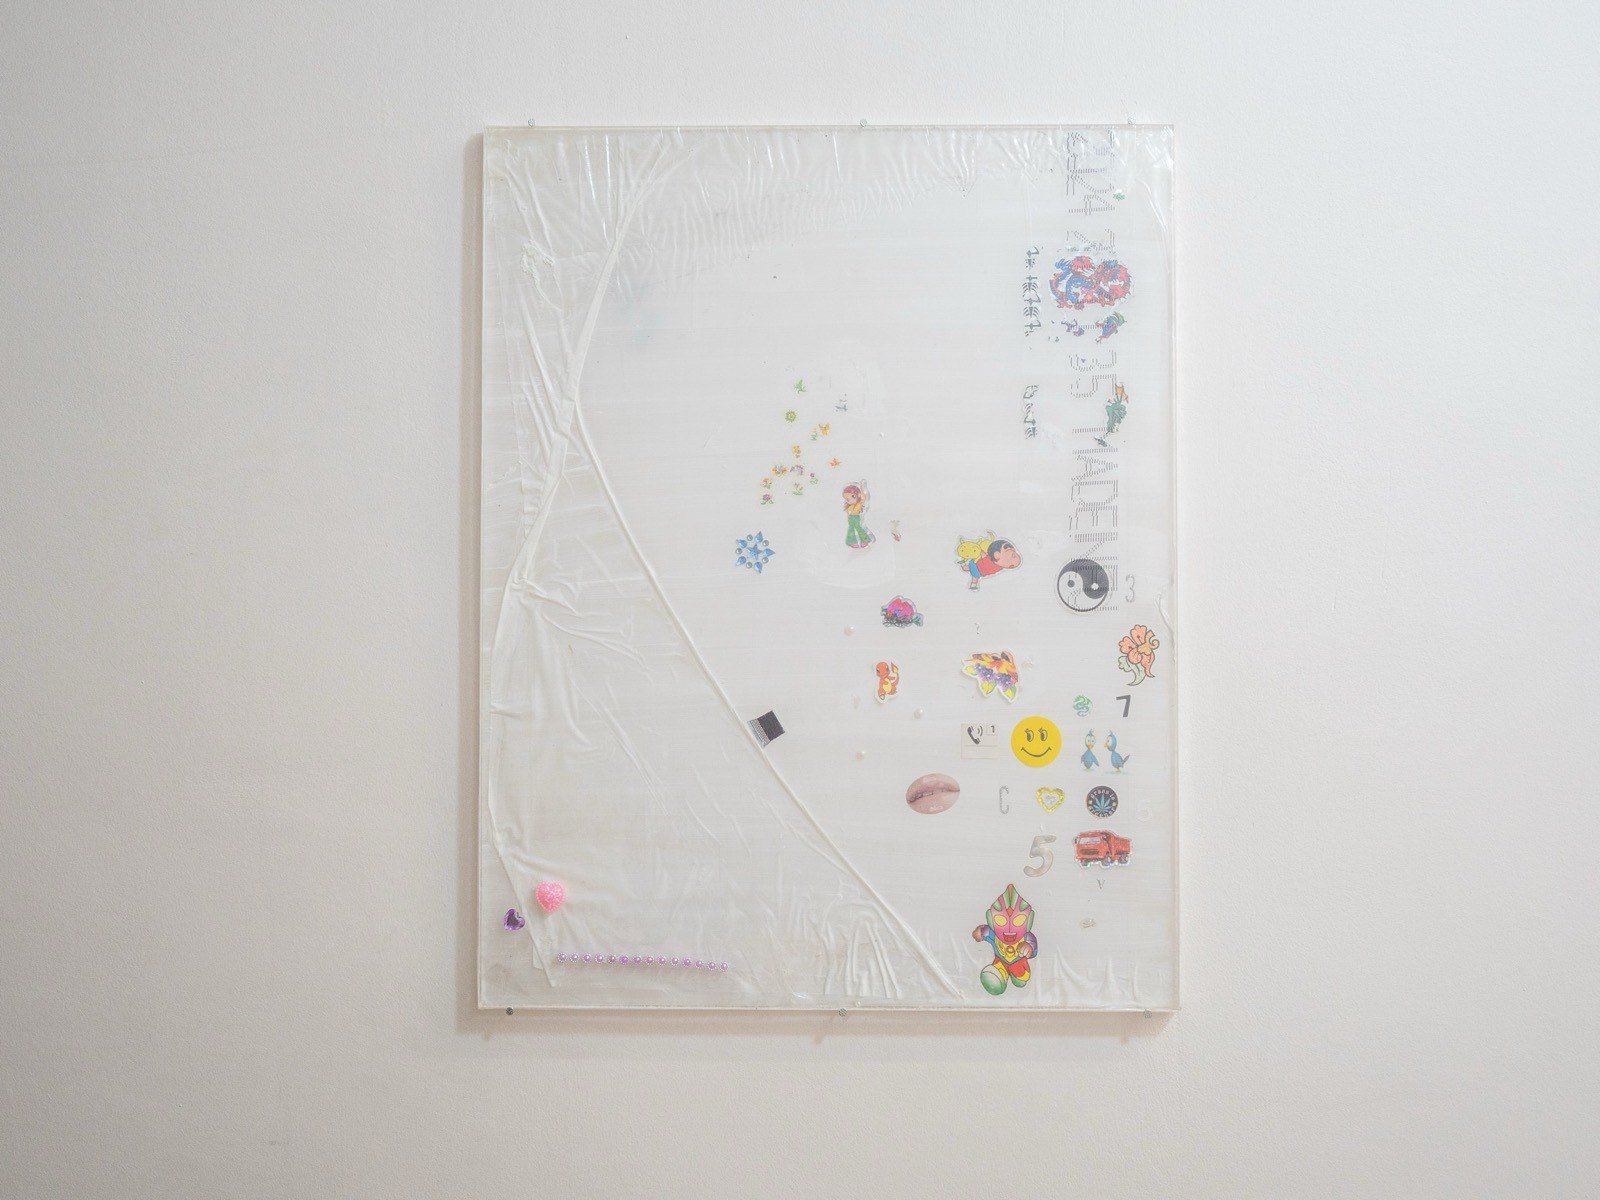
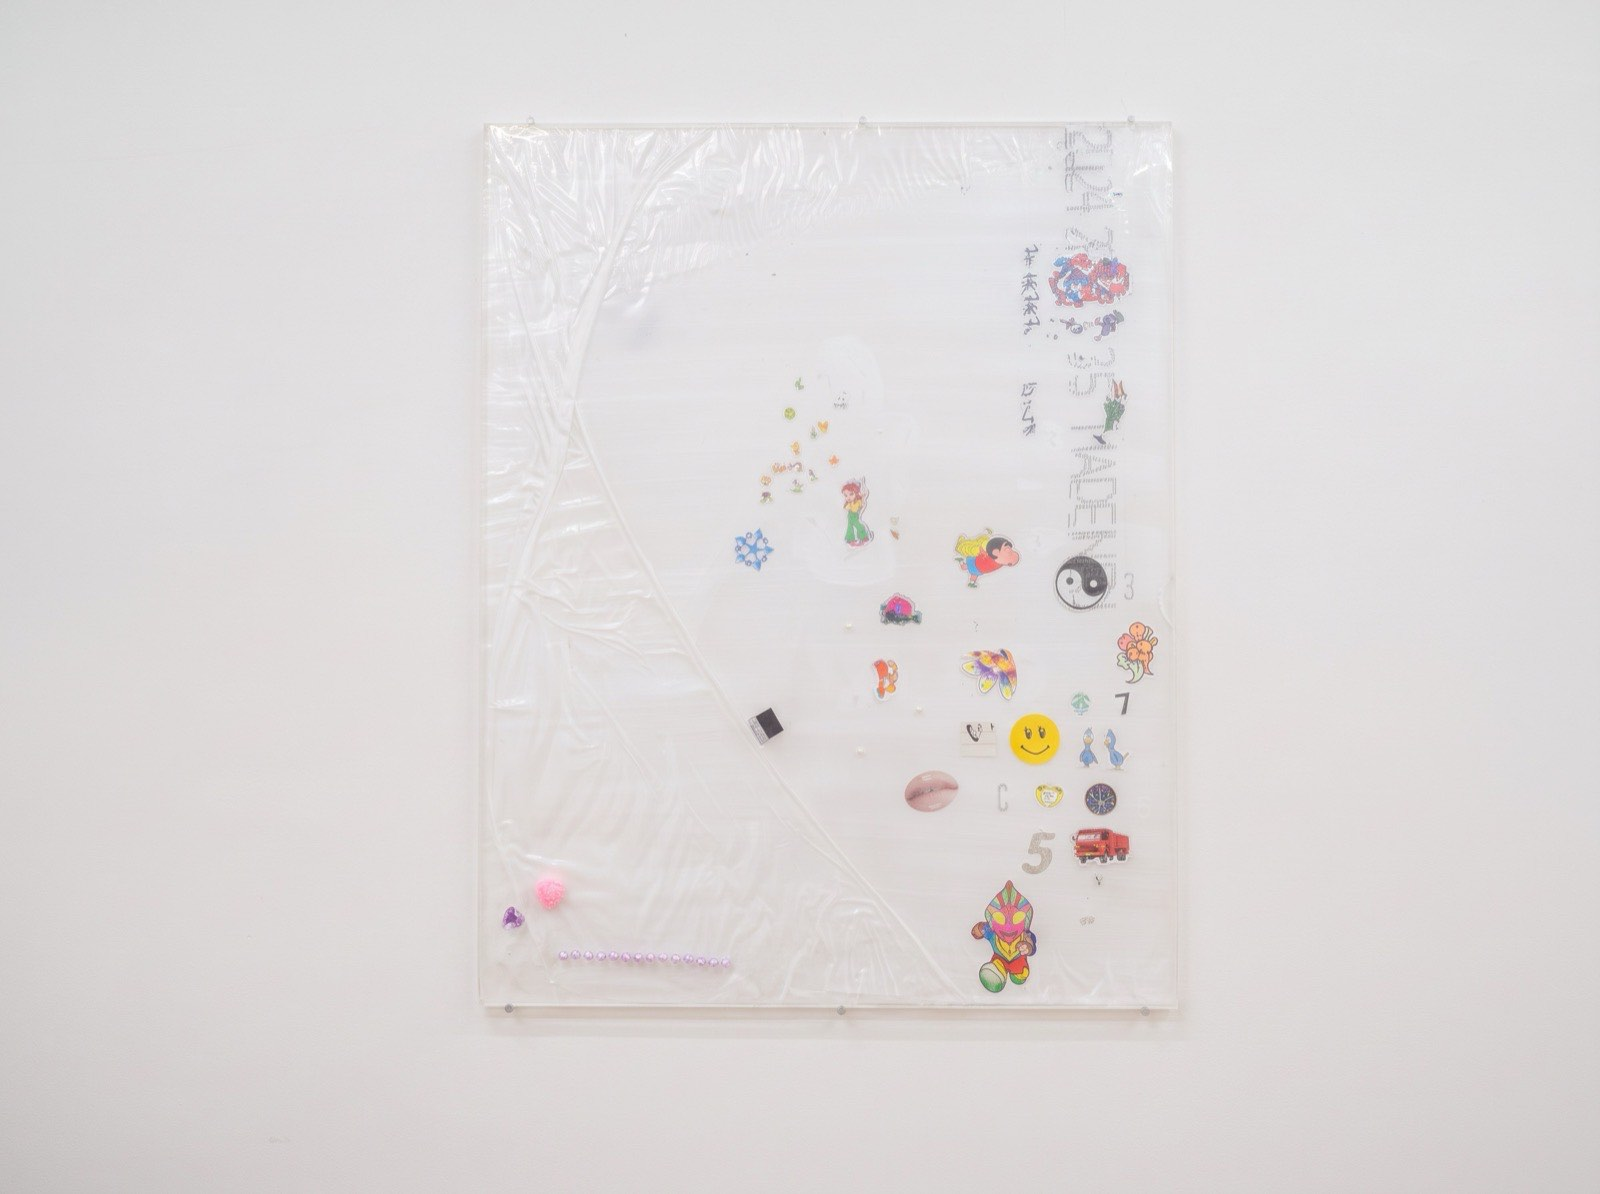
Refactor code structure for improved readability and maintainability

diff --git a/artistes/caroline-ventura/index.html b/artistes/caroline-ventura/index.html
@@ -19,7 +19,7 @@
 <meta name="twitter:description" content="Peinture, dessin · Magenta Made Me Hardcore · Kramer, Paris">
 <meta name="twitter:image" content="https://kramer.paris/images/works/caroline-ventura--sans-titre-air--obj-1.jpg">
 <script type="application/ld+json">
-{"@context":"https://schema.org","@graph":[{"@type":"WebPage","@id":"https://kramer.paris/artistes/caroline-ventura/","url":"https://kramer.paris/artistes/caroline-ventura/","name":"Caroline Ventura — Peinture · Kramer, Paris","description":"Caroline Ventura, peinture, dessin (Aubervilliers) — exposition « Magenta Made Me Hardcore » (KR03). Kramer, galerie d'art contemporain, Paris 10e.","inLanguage":"fr","mainEntity":{"@id":"https://kramer.paris/artistes/caroline-ventura/#person"},"isPartOf":{"@type":"WebSite","@id":"https://kramer.paris/#website","name":"Kramer","url":"https://kramer.paris/"},"breadcrumb":{"@id":"https://kramer.paris/artistes/caroline-ventura/#breadcrumb"}},{"@type":"BreadcrumbList","@id":"https://kramer.paris/artistes/caroline-ventura/#breadcrumb","itemListElement":[{"@type":"ListItem","position":1,"name":"Accueil","item":"https://kramer.paris/"},{"@type":"ListItem","position":2,"name":"Registre des artistes","item":"https://kramer.paris/artistes/"},{"@type":"ListItem","position":3,"name":"Caroline Ventura","item":"https://kramer.paris/artistes/caroline-ventura/"}]},{"@type":"Person","@id":"https://kramer.paris/artistes/caroline-ventura/#person","name":"Caroline Ventura","url":"https://kramer.paris/artistes/caroline-ventura/","jobTitle":["Artiste","Visual Artist"],"image":"https://kramer.paris/images/works/caroline-ventura--sans-titre-air--obj-1.jpg","knowsAbout":["Peinture","dessin"],"birthDate":"1994","birthPlace":{"@type":"Place","name":"Lausanne"},"homeLocation":{"@type":"Place","name":"Aubervilliers"},"gender":"https://schema.org/Female","affiliation":{"@id":"https://kramer.paris/#gallery"},"sameAs":["https://www.carolineventura.ch"]},{"@type":"ArtGallery","@id":"https://kramer.paris/#gallery","name":"Kramer","url":"https://kramer.paris/","image":"https://kramer.paris/images/kramer_wordmark.png","logo":"https://kramer.paris/images/kramer_wordmark.png","description":"Galerie d'art contemporain à Paris (10e) — galerie d'appartement, registre d'expositions.","address":{"@type":"PostalAddress","streetAddress":"132 Bd de Magenta","postalCode":"75010","addressLocality":"Paris","addressCountry":"FR"},"geo":{"@type":"GeoCoordinates","latitude":48.880867,"longitude":2.352205},"hasMap":"https://www.google.com/maps/search/?api=1&query=132%20Bd%20de%20Magenta%2C%2075010%20Paris","sameAs":["https://www.instagram.com/galeriekramer/"]},{"@type":"VisualArtwork","@id":"https://kramer.paris/artistes/caroline-ventura/#oeuvre-sans-titre-air","name":"Sans titre (air)","creator":{"@id":"https://kramer.paris/artistes/caroline-ventura/#person"},"url":"https://kramer.paris/artistes/caroline-ventura/","dateCreated":"2026","artform":"Peinture","artMedium":"Peinture — châssis bois hêtre, toile coton, mixed medium","height":{"@type":"Distance","name":"92 cm"},"width":{"@type":"Distance","name":"73 cm"},"image":{"@type":"ImageObject","contentUrl":"https://kramer.paris/images/works/caroline-ventura--sans-titre-air--obj-1.jpg","creditText":"Matteo Kramer","creator":{"@type":"Organization","name":"Kramer","url":"https://kramer.paris/"},"copyrightNotice":"© Caroline Ventura","license":"https://kramer.paris/#mentions-legales","acquireLicensePage":"https://kramer.paris/#section-acces"}},{"@type":"VisualArtwork","@id":"https://kramer.paris/artistes/caroline-ventura/#oeuvre-sans-titre-etoile","name":"Sans titre (étoile)","creator":{"@id":"https://kramer.paris/artistes/caroline-ventura/#person"},"url":"https://kramer.paris/artistes/caroline-ventura/","dateCreated":"2026","artform":"Peinture","artMedium":"Peinture — châssis bois hêtre, toile coton, mixed medium","height":{"@type":"Distance","name":"92 cm"},"width":{"@type":"Distance","name":"73 cm"},"image":[{"@type":"ImageObject","contentUrl":"https://kramer.paris/images/installation/kr03-inst-15-khrapova-ventura.jpg","creditText":"Matteo Kramer","creator":{"@type":"Organization","name":"Kramer","url":"https://kramer.paris/"},"copyrightNotice":"© KRAMER","license":"https://kramer.paris/#mentions-legales","acquireLicensePage":"https://kramer.paris/#section-acces"},{"@type":"ImageObject","contentUrl":"https://kramer.paris/images/installation/kr03-inst-14-khrapova-ventura.jpg","creditText":"Matteo Kramer","creator":{"@type":"Organization","name":"Kramer","url":"https://kramer.paris/"},"copyrightNotice":"© KRAMER","license":"https://kramer.paris/#mentions-legales","acquireLicensePage":"https://kramer.paris/#section-acces"}]},{"@type":"VisualArtwork","@id":"https://kramer.paris/artistes/caroline-ventura/#oeuvre-stickers-2026","name":"Stickers (2026)","creator":{"@id":"https://kramer.paris/artistes/caroline-ventura/#person"},"url":"https://kramer.paris/artistes/caroline-ventura/","dateCreated":"2026","artform":"Peinture","artMedium":"Peinture — plexiglass, gesso, autocollants, scotch","height":{"@type":"Distance","name":"33 cm"},"width":{"@type":"Distance","name":"24 cm"},"image":[{"@type":"ImageObject","contentUrl":"https://kramer.paris/images/works/caroline-ventura--stickers--obj-1.jpg","creditText":"Matteo Kramer","creator":{"@type":"Organization","name":"Kramer","url":"https://kramer.paris/"},"copyrightNotice":"© Caroline Ventura","license":"https://kramer.paris/#mentions-legales","acquireLicensePage":"https://kramer.paris/#section-acces"},{"@type":"ImageObject","contentUrl":"https://kramer.paris/images/installation/kr03-inst-03-khrapova-nicole-ventura.jpg","creditText":"Matteo Kramer","creator":{"@type":"Organization","name":"Kramer","url":"https://kramer.paris/"},"copyrightNotice":"© KRAMER","license":"https://kramer.paris/#mentions-legales","acquireLicensePage":"https://kramer.paris/#section-acces"}]}]}
+{"@context":"https://schema.org","@graph":[{"@type":"WebPage","@id":"https://kramer.paris/artistes/caroline-ventura/","url":"https://kramer.paris/artistes/caroline-ventura/","name":"Caroline Ventura — Peinture · Kramer, Paris","description":"Caroline Ventura, peinture, dessin (Aubervilliers) — exposition « Magenta Made Me Hardcore » (KR03). Kramer, galerie d'art contemporain, Paris 10e.","inLanguage":"fr","mainEntity":{"@id":"https://kramer.paris/artistes/caroline-ventura/#person"},"isPartOf":{"@type":"WebSite","@id":"https://kramer.paris/#website","name":"Kramer","url":"https://kramer.paris/"},"breadcrumb":{"@id":"https://kramer.paris/artistes/caroline-ventura/#breadcrumb"}},{"@type":"BreadcrumbList","@id":"https://kramer.paris/artistes/caroline-ventura/#breadcrumb","itemListElement":[{"@type":"ListItem","position":1,"name":"Accueil","item":"https://kramer.paris/"},{"@type":"ListItem","position":2,"name":"Registre des artistes","item":"https://kramer.paris/artistes/"},{"@type":"ListItem","position":3,"name":"Caroline Ventura","item":"https://kramer.paris/artistes/caroline-ventura/"}]},{"@type":"Person","@id":"https://kramer.paris/artistes/caroline-ventura/#person","name":"Caroline Ventura","url":"https://kramer.paris/artistes/caroline-ventura/","jobTitle":["Artiste","Visual Artist"],"image":"https://kramer.paris/images/works/caroline-ventura--sans-titre-air--obj-1.jpg","knowsAbout":["Peinture","dessin"],"birthDate":"1994","birthPlace":{"@type":"Place","name":"Lausanne"},"homeLocation":{"@type":"Place","name":"Aubervilliers"},"gender":"https://schema.org/Female","affiliation":{"@id":"https://kramer.paris/#gallery"},"sameAs":["https://www.carolineventura.ch"]},{"@type":"ArtGallery","@id":"https://kramer.paris/#gallery","name":"Kramer","url":"https://kramer.paris/","image":"https://kramer.paris/images/kramer_wordmark.png","logo":"https://kramer.paris/images/kramer_wordmark.png","description":"Galerie d'art contemporain à Paris (10e) — galerie d'appartement, registre d'expositions.","address":{"@type":"PostalAddress","streetAddress":"132 Bd de Magenta","postalCode":"75010","addressLocality":"Paris","addressCountry":"FR"},"geo":{"@type":"GeoCoordinates","latitude":48.880867,"longitude":2.352205},"hasMap":"https://www.google.com/maps/search/?api=1&query=132%20Bd%20de%20Magenta%2C%2075010%20Paris","sameAs":["https://www.instagram.com/galeriekramer/"]},{"@type":"VisualArtwork","@id":"https://kramer.paris/artistes/caroline-ventura/#oeuvre-sans-titre-air","name":"Sans titre (air)","creator":{"@id":"https://kramer.paris/artistes/caroline-ventura/#person"},"url":"https://kramer.paris/artistes/caroline-ventura/","dateCreated":"2026","artform":"Peinture","artMedium":"Peinture — châssis bois hêtre, toile coton, mixed medium","height":{"@type":"Distance","name":"92 cm"},"width":{"@type":"Distance","name":"73 cm"},"image":{"@type":"ImageObject","contentUrl":"https://kramer.paris/images/works/caroline-ventura--sans-titre-air--obj-1.jpg","creditText":"Matteo Kramer","creator":{"@type":"Organization","name":"Kramer","url":"https://kramer.paris/"},"copyrightNotice":"© Caroline Ventura","license":"https://kramer.paris/#mentions-legales","acquireLicensePage":"https://kramer.paris/#section-acces"}},{"@type":"VisualArtwork","@id":"https://kramer.paris/artistes/caroline-ventura/#oeuvre-sans-titre-etoile","name":"Sans titre (étoile)","creator":{"@id":"https://kramer.paris/artistes/caroline-ventura/#person"},"url":"https://kramer.paris/artistes/caroline-ventura/","dateCreated":"2026","artform":"Peinture","artMedium":"Peinture — châssis bois hêtre, toile coton, mixed medium","height":{"@type":"Distance","name":"92 cm"},"width":{"@type":"Distance","name":"73 cm"},"image":[{"@type":"ImageObject","contentUrl":"https://kramer.paris/images/installation/kr03-inst-15-khrapova-ventura.jpg","creditText":"Matteo Kramer","creator":{"@type":"Organization","name":"Kramer","url":"https://kramer.paris/"},"copyrightNotice":"© KRAMER","license":"https://kramer.paris/#mentions-legales","acquireLicensePage":"https://kramer.paris/#section-acces"},{"@type":"ImageObject","contentUrl":"https://kramer.paris/images/installation/kr03-inst-14-khrapova-ventura.jpg","creditText":"Matteo Kramer","creator":{"@type":"Organization","name":"Kramer","url":"https://kramer.paris/"},"copyrightNotice":"© KRAMER","license":"https://kramer.paris/#mentions-legales","acquireLicensePage":"https://kramer.paris/#section-acces"}]},{"@type":"VisualArtwork","@id":"https://kramer.paris/artistes/caroline-ventura/#oeuvre-stickers-2026","name":"Stickers (2026)","creator":{"@id":"https://kramer.paris/artistes/caroline-ventura/#person"},"url":"https://kramer.paris/artistes/caroline-ventura/","dateCreated":"2026","artform":"Peinture","artMedium":"Peinture — plexiglass, gesso, autocollants, scotch","height":{"@type":"Distance","name":"33 cm"},"width":{"@type":"Distance","name":"24 cm"},"image":[{"@type":"ImageObject","contentUrl":"https://kramer.paris/images/works/caroline-ventura--stickers--obj-1.jpg","creditText":"Matteo Kramer","creator":{"@type":"Organization","name":"Kramer","url":"https://kramer.paris/"},"copyrightNotice":"© Caroline Ventura","license":"https://kramer.paris/#mentions-legales","acquireLicensePage":"https://kramer.paris/#section-acces"},{"@type":"ImageObject","contentUrl":"https://kramer.paris/images/works/caroline-ventura--stickers--obj-2.jpg","creditText":"Matteo Kramer","creator":{"@type":"Organization","name":"Kramer","url":"https://kramer.paris/"},"copyrightNotice":"© Caroline Ventura","license":"https://kramer.paris/#mentions-legales","acquireLicensePage":"https://kramer.paris/#section-acces"},{"@type":"ImageObject","contentUrl":"https://kramer.paris/images/installation/kr03-inst-03-khrapova-nicole-ventura.jpg","creditText":"Matteo Kramer","creator":{"@type":"Organization","name":"Kramer","url":"https://kramer.paris/"},"copyrightNotice":"© KRAMER","license":"https://kramer.paris/#mentions-legales","acquireLicensePage":"https://kramer.paris/#section-acces"}]}]}
 </script>
 <link rel="stylesheet" href="https://use.typekit.net/svm4vfk.css">
 <link rel="stylesheet" href="../../kramer.css">
@@ -57,6 +57,8 @@
       </div>
       <div class="work-item">
         <div class="work-plate"><img src="../../images/works/caroline-ventura--stickers--obj-1.jpg" alt="Stickers (2026), Peinture — plexiglass, gesso, autocollants, scotch · 33 × 24 cm" loading="lazy" decoding="async"></div>
+        <p class="work-cap">Caroline Ventura, <em>Stickers (2026)</em>, 2026. Peinture — plexiglass, gesso, autocollants, scotch, 33 × 24 cm. Courtoisie de l'artiste. Kramer.</p>
+        <div class="work-plate"><img src="../../images/works/caroline-ventura--stickers--obj-2.jpg" alt="Stickers (2026), Peinture — plexiglass, gesso, autocollants, scotch · 33 × 24 cm" loading="lazy" decoding="async"></div>
         <p class="work-cap">Caroline Ventura, <em>Stickers (2026)</em>, 2026. Peinture — plexiglass, gesso, autocollants, scotch, 33 × 24 cm. Courtoisie de l'artiste. Kramer.</p>
         <a class="work-inquire" href="#" data-t="Stickers (2026)" data-d="2026" data-s="33 × 24 cm" data-r="KR03CV">Demander la fiche →</a>
         <div class="work-plate"><img src="../../images/installation/kr03-inst-03-khrapova-nicole-ventura.jpg" alt="Vue d'installation de «Magenta Made Me Hardcore», KRAMER — Caroline Ventura" loading="lazy" decoding="async"></div>

diff --git a/index.html b/index.html
@@ -962,7 +962,7 @@ const ARTISTS=[
     {l:'Publications & collaborations',rows:[['2026','Je ne suis pas qu’un chien, Palais de Tokyo (film réalisé par Sylvia Vargane, à venir)'],['2025','Entretien filmé, TimeOut Paris'],['2025','Catalogue de l’exposition ANIMAL!?'],['2025','Documentation de la résidence Le Grippault (télévision)'],['2025','Richelieu, « Move Your Art! » au Grippault (journalisme)'],['2025','Blazers Blasons'],['2024','Monsieur Nini (entretien filmé autour de l’exposition Dogs In Art)']]}]},
   {slug:'caroline-ventura',name:'Caroline Ventura',born:'1994, Lausanne',based:'Aubervilliers',medium:'Peinture, dessin',code:'CV',g:'f',links:['https://www.carolineventura.ch'],
    bio:'Caroline Ventura (born 1994, Lausanne) is a visual artist who graduated from ECAL in 2016 with a BA in Visual Arts, receiving the Walter & Eve Kent Scholarship and the Prix du Risque. She later completed the Work.Master at HEAD in Geneva, took part in the Summer Academy at the Swiss Institute in Rome, and spent her final year in Paris. A finalist for the Swiss Art Awards in 2021, she has shown her work mainly in Switzerland, France and Germany, including at Café des Glaces (Tonnerre), sic! Elephanthouse (Lucerne), Spoiler.zone (Berlin) and Tada Space (Denmark). In 2024, she published her first book, More Beautiful Than They Are, accompanied by an exhibition at sic! Elephanthouse. In 2025, she received a research travel grant from Pro Helvetia and spent a month in Lisbon to begin developing her film project Ponte de Vista. That same year, she co-curated two independent exhibitions in Paris and Zurich under the name good company.\n\nHer practice is driven by gesture, repetition and collection, with painting acting as a compositional force in itself. Inspired by the energy of urban environments and the visual culture of her adolescence, she translates the density of the city into vibrant surfaces built from rhythm, layering and tension. Working across latex, mirror, paper and canvas, she uses each support to shift perception and create moments of appearance, reflection or disappearance. Balancing control and improvisation, her work moves between softness and directness, opening a space where colours, forms and gestures interact freely and generate their own internal logic.',bioLang:'en',
-   works:[{t:'Sans titre (air)',d:'2026',m:'Peinture — châssis bois hêtre, toile coton, mixed medium',s:'92 × 73 cm',i:'caroline-ventura--sans-titre-air--obj-1.jpg',ph:'Matteo Kramer'},{t:'Sans titre (étoile)',d:'2026',m:'Peinture — châssis bois hêtre, toile coton, mixed medium',s:'92 × 73 cm',i:{f:'kr03-inst-15-khrapova-ventura.jpg',ph:'Matteo Kramer',dir:'installation'},ph:'Matteo Kramer',views:[{f:'kr03-inst-14-khrapova-ventura.jpg',ph:'Matteo Kramer',dir:'installation'}]},{t:'Stickers (2026)',d:'2026',m:'Peinture — plexiglass, gesso, autocollants, scotch',s:'33 × 24 cm',i:'caroline-ventura--stickers--obj-1.jpg',ph:'Matteo Kramer',views:[{f:'kr03-inst-03-khrapova-nicole-ventura.jpg',ph:'Matteo Kramer',dir:'installation'}]}],
+   works:[{t:'Sans titre (air)',d:'2026',m:'Peinture — châssis bois hêtre, toile coton, mixed medium',s:'92 × 73 cm',i:'caroline-ventura--sans-titre-air--obj-1.jpg',ph:'Matteo Kramer'},{t:'Sans titre (étoile)',d:'2026',m:'Peinture — châssis bois hêtre, toile coton, mixed medium',s:'92 × 73 cm',i:{f:'kr03-inst-15-khrapova-ventura.jpg',ph:'Matteo Kramer',dir:'installation'},ph:'Matteo Kramer',views:[{f:'kr03-inst-14-khrapova-ventura.jpg',ph:'Matteo Kramer',dir:'installation'}]},{t:'Stickers (2026)',d:'2026',m:'Peinture — plexiglass, gesso, autocollants, scotch',s:'33 × 24 cm',i:'caroline-ventura--stickers--obj-1.jpg',ph:'Matteo Kramer',views:['caroline-ventura--stickers--obj-2.jpg',{f:'kr03-inst-03-khrapova-nicole-ventura.jpg',ph:'Matteo Kramer',dir:'installation'}]}],
    solo:[['2024','Postcards, Tada Space, Copenhagen'],['2024','More Beautiful Than They Are, sic! Elephanthouse, Lucerne'],['2023','Ppl Create Their Own Narrative Anyway, Café des Glaces, Tonnerre (FR)'],['2023','La Chambre Rose, Aarlo U Viggo, Buchillon (CH)'],['2022','« transparent only », Rindermarkt 23, Zurich'],['2019','18, avec Simon Paccaud, Valentin 61, Lausanne'],['2015','Spray +, avec Jules Moskovtchenko, Hangar 9, Geneva']],
    group:[['2026','De Bailly à Zaric, Musée Historique de Lausanne'],['2026','Swiss Art For Palestine, Geneva'],['2025','END OF SUMMER SHOW, attempt, good company, Zurich'],['2024','5 ans de la galerie Aarlo U Viggo, Buchillon'],['2024','Des Seins à Dessein, Espace Arlaud, Lausanne'],['2024','If not friend, why friend shaped?, Spoiler.zone, Berlin'],['2024','Taking the Long Way Home, Sweet Tooth, Zurich'],['2022','I Want You So Bad, Soul2Soul, Genève'],['2021','Calendrier de l’avent musical, R2Lrec, Bongo Joe, Geneva'],['2021','See U L8ter, Swiss Art Awards, Bâle'],['2021','End of Summer, performance pour Virginie Jemmely, Fri Art, Fribourg'],['2021','Birdhouses, Festival de Locarno'],['2021','Signatures (X), Smallville, Neuchâtel'],['2021','âge D’Or, collectif RPZ, Paris'],['2021','Birdhouses, Av. du 14 mai, Lausanne'],['2021','February Blues, Valentin 61, Lausanne'],['2020','Ille Digital 7, exposition virtuelle, Meister Und Werke, Münich'],['2020','Exhibiting Painting, exposition virtuelle, Jack’s Flat, Berlin'],['2020','Coronavirus Virtual Exhibition, carolineventura.ch/virtualgallery'],['2020','UNITE: Workers Of The World, Upstate, Zurich'],['2020','Sister, Grève des Femmes, Arsenic, Lausanne'],['2017','ECAL Ten Years exhibition, Lausanne'],['2016','axaxaxa mixed media, Lac Gallery, Vevey'],['2016','taz, Micro art space intervention, Lausanne'],['2016','axaxaxa mixed media, G60, Lausanne'],['2015','Construire Un Feu, ECAL, Lausanne']],
    extra:[
